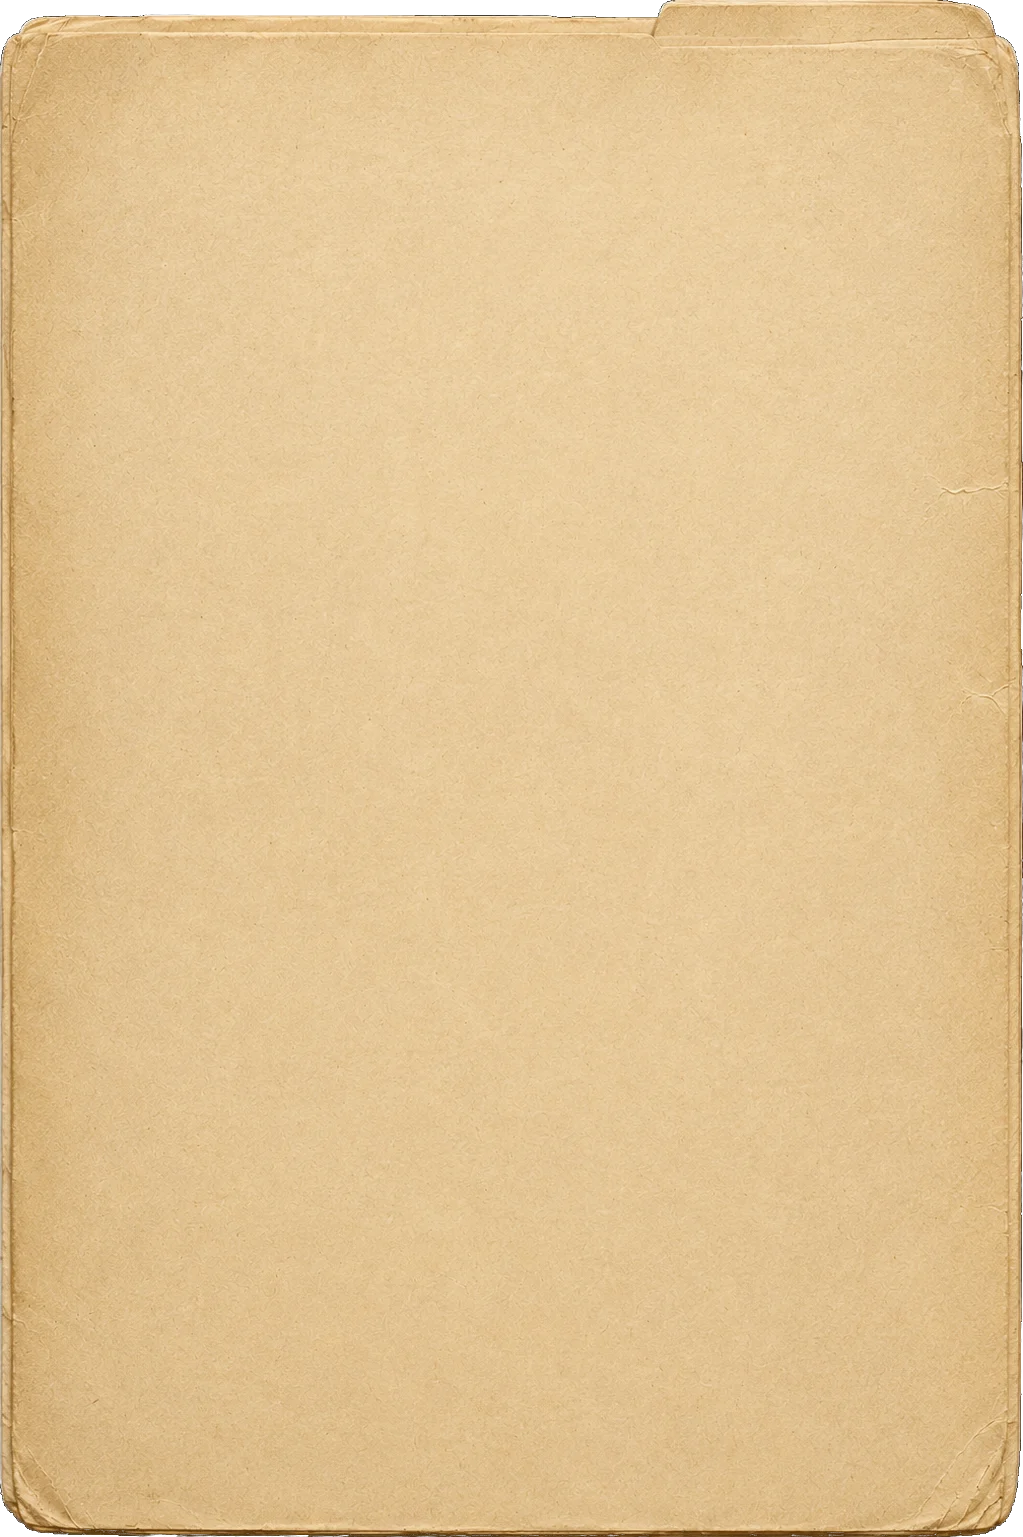
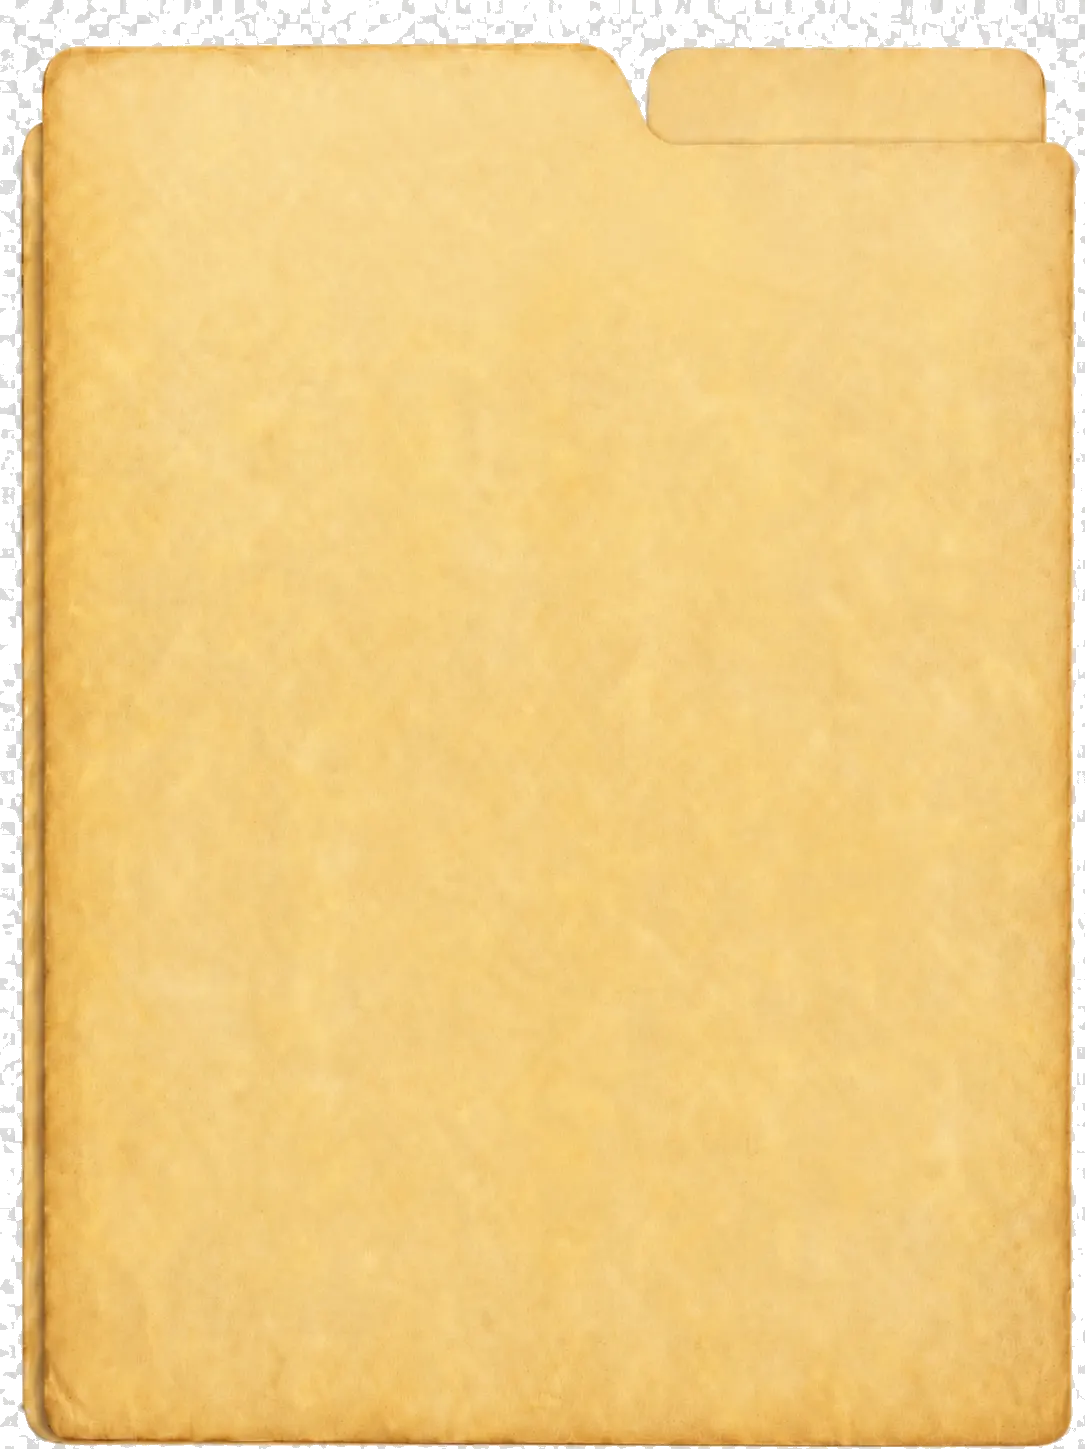
landing1012: use blank folder template (43KB webp) as the page frame, articles inside
Convert blank.png -> blank-folder.webp (keyed transparent, 1851KB->43KB).
Swap the page background to the folder shape (stretched to fit), with the
code masthead + nav + 10 articles populated inside the folder body.

diff --git a/app/landing1012/landing1012.css b/app/landing1012/landing1012.css
@@ -21,16 +21,20 @@
   --ink-soft: rgba(20, 16, 13, 0.72);
   --paper: #ece0c4;
 
-  width: min(100%, 1080px);
+  width: min(100%, 1040px);
   align-self: flex-start;
   color: var(--ink);
   font-family: Georgia, 'Times New Roman', serif;
-  background-color: #e9ddc4;
-  background-image: url('/og-parchment.webp');
-  background-size: cover;
+  background-color: transparent;
+  background-image: url('/blank-folder.webp');
+  background-size: 100% 100%;
+  background-repeat: no-repeat;
   background-position: center;
-  padding: clamp(18px, 3.2vw, 44px) clamp(18px, 3.5vw, 52px) clamp(28px, 4vw, 60px);
-  box-shadow: 0 22px 64px rgba(0, 0, 0, 0.5);
+  /* extra top padding clears the folder tab; sides/bottom sit inside the
+     folder edges. background-size:100% 100% stretches the folder frame to
+     whatever height the articles need. */
+  padding: clamp(54px, 7vw, 100px) clamp(40px, 6vw, 76px) clamp(44px, 5vw, 72px);
+  filter: drop-shadow(0 18px 38px rgba(0, 0, 0, 0.5));
 }
 
 /* ---- Masthead ---- */
